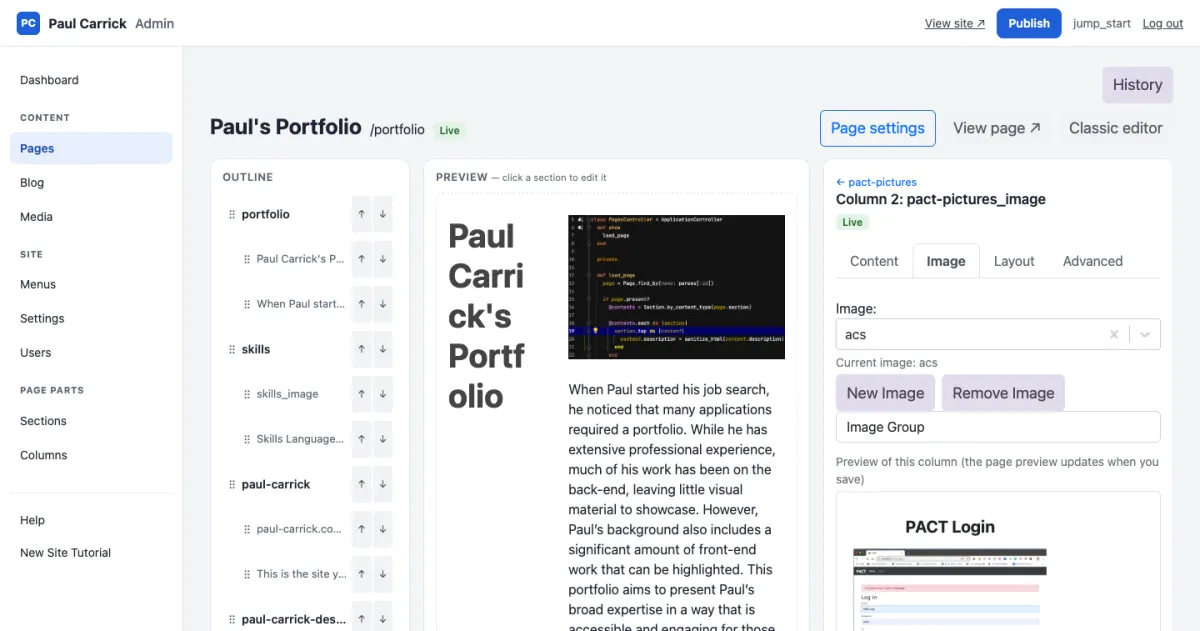
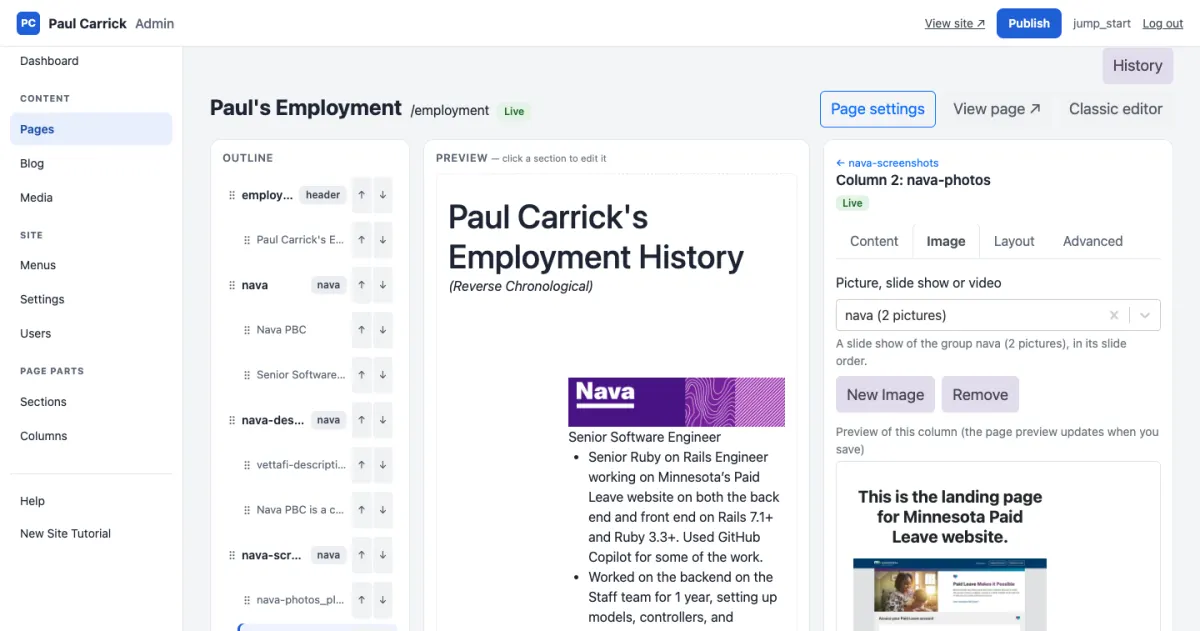
Choose a column's picture, slide show or video from one list
The column editor's Image tab had an unlabelled type select beside the
picture list, easy to miss, so adding an image group seemed to be gone. It
now has one labelled list, Picture, slide show or video: slide shows (each
image group with its number of pictures), videos and pictures, searchable,
each stored with its reference (ImageGroup:, VideoImage:"", ImageFile:) and
described under the list. Changing the choice drops any saved slide-show
list so the new choice shows. The help guide and tutorial describe it.

diff --git a/app/javascript/components/ImagePicker.tsx b/app/javascript/components/ImagePicker.tsx
@@ -1,6 +1,7 @@
 import NewImageButton from "./NewImageButton";
 import { useImageChoices } from "../hooks/useImageChoices";
-import React, { useState } from "react";
+import React, { useEffect, useState } from "react";
+import Select from "react-select";
 import { createImageFile } from "../services/imageFileService";
 import type { ImageType } from "../types/dataTypes";
 import { renderComboBox, renderSelect } from "./renderControlFunctions";
@@ -16,6 +17,85 @@ function imageChoice(image: string | null): string | null {
   if (!image) return null;
   const video = image.match(/^VideoImage:\s*"(.*)"$/);
   return video ? video[1] : image.replace(/^(ImageFile|ImageGroup|ImageSection):\s*/, '');
+}
+
+
+// The column's image field as one of the choices below: "ImageFile:name"
+// (a plain name counts as a picture too), "ImageGroup:group" for a slide show
+// of a group, or 'VideoImage:"name"' for a video.
+export function mediaReference(image: string | null | undefined): string {
+  const value = (image || "").trim();
+  if (!value) return "";
+  const video = value.match(/^VideoImage:\s*(?:"|&quot;)\s*(.+?)\s*(?:"|&quot;)$/);
+  if (video) return `VideoImage:"${video[1]}"`;
+  const typed = value.match(/^(ImageFile|ImageGroup|ImageSection):\s*(.+)$/);
+  if (typed) return `${typed[1]}:${typed[2].trim()}`;
+  if (/^(https?:|\/|\[)/.test(value)) return value;
+  return `ImageFile:${value}`;
+}
+
+type MediaOption = { label: string; value: string };
+
+// One list for everything a column can show: a picture, a slide show of an
+// image group, or a video. Choosing one stores the right reference.
+function MediaChooser({
+  image,
+  images,
+  groups,
+  groupCounts,
+  videos,
+  onChoose,
+}: {
+  image: string | null;
+  images: string[];
+  groups: string[];
+  groupCounts: Record<string, number>;
+  videos: string[];
+  onChoose: (reference: string) => void;
+}) {
+  const plural = (count: number | undefined) => (count === undefined ? "" : ` (${count} ${count === 1 ? "picture" : "pictures"})`);
+  // The short lists first, so slide shows and videos are not buried under
+  // every picture; typing searches all three.
+  const options = [
+    { label: "Slide shows (image groups)", options: groups.map((group) => ({ label: `${group}${plural(groupCounts[group])}`, value: `ImageGroup:${group}` })) },
+    { label: "Videos", options: videos.map((name) => ({ label: name, value: `VideoImage:"${name}"` })) },
+    { label: "Pictures", options: images.map((name) => ({ label: name, value: `ImageFile:${name}` })) },
+  ].filter((group) => group.options.length > 0);
+  const reference = mediaReference(image);
+  const all: MediaOption[] = options.flatMap((group) => group.options);
+  const current = reference ? all.find((option) => option.value === reference) || { label: reference, value: reference } : null;
+
+  let description = "Nothing chosen: the column shows only its text.";
+  if (reference.startsWith("ImageGroup:")) {
+    const group = reference.slice("ImageGroup:".length);
+    description = `A slide show of the group ${group}${plural(groupCounts[group])}, in its slide order.`;
+  } else if (reference.startsWith("VideoImage:")) {
+    description = `The video ${reference.slice('VideoImage:"'.length, -1)}, with play controls.`;
+  } else if (reference.startsWith("ImageSection:")) {
+    description = `The pictures of the section ${reference.slice("ImageSection:".length)}.`;
+  } else if (reference.startsWith("ImageFile:")) {
+    description = `The picture ${reference.slice("ImageFile:".length)}.`;
+  } else if (reference) {
+    description = `The picture at ${reference}.`;
+  }
+
+  return (
+    <div className="column-media">
+      <label htmlFor="column-media" className="form-label">Picture, slide show or video</label>
+      <Select<MediaOption, false>
+        inputId="column-media"
+        classNamePrefix="column-media"
+        value={current}
+        options={options}
+        onChange={(option) => onChoose(option?.value || "")}
+        isClearable
+        isSearchable
+        placeholder="Type to search pictures, groups and videos…"
+        noOptionsMessage={() => "Nothing matches. Upload it with New Image."}
+      />
+      <div className="form-text">{description}</div>
+    </div>
+  );
 }
 
 const imageTypeOptions = [
@@ -44,6 +124,10 @@ export default function ImagePicker({
   setValue: (value: string, attribute: string) => void;
 }) {
   const { choices, reload, error } = useImageChoices();
+  // Load the full list (with each group's size) for the column editor.
+  useEffect(() => {
+    if (referenceValues && !choices) reload();
+  }, [referenceValues, choices, reload]);
   availableImagesData = choices?.images ?? availableImagesData;
   availableImageGroupsData = choices?.groups ?? availableImageGroupsData;
   availableVideosData = choices?.videos ?? availableVideosData;
@@ -104,6 +188,26 @@ export default function ImagePicker({
     setUploadedImage(null);
     setImageName("");
   };
+
+  if (referenceValues) {
+    return (
+      <div className="mb-2">
+        <MediaChooser
+          image={image}
+          images={availableImagesData ?? []}
+          groups={availableImageGroupsData ?? []}
+          groupCounts={choices?.group_counts ?? {}}
+          videos={availableVideosData ?? []}
+          onChoose={(reference) => setValue(reference, "image")}
+        />
+        <div className="d-flex flex-wrap align-items-center gap-2 mt-2">
+          <NewImageButton onReturn={reload} />
+          {image && <button type="button" className="btn btn-secondary" onClick={() => setValue("", "image")}>Remove</button>}
+        </div>
+        {error && <div role="alert">{error} <button type="button" className="btn btn-link" onClick={reload}>Retry</button></div>}
+      </div>
+    );
+  }
 
   if (!image && imageType === "Upload") {
     return (

diff --git a/spec/javascript/admin_editors_real.test.jsx b/spec/javascript/admin_editors_real.test.jsx
@@ -13,8 +13,9 @@ it('initializes the standalone column and image picker without changing parent h
   const onFinished = vi.fn();
   const { container } = render(<CellEditor cell={cell} editorOptions={{ availableSectionNames: ['section'], availableImages: ['photo'], availableImageGroups: ['gallery'], availableVideos: ['clip'] }} onFinished={onFinished} />);
   expect(screen.getByText('Save Column')).toBeTruthy();
-  fireEvent.change(container.querySelector('#image_type'), { target: { value: 'Groups' } });
-  expect(container.querySelector('#image_type').value).toBe('Groups');
+  // One list for pictures, slide shows and videos replaces the old type select.
+  expect(container.querySelector('#column-media')).toBeTruthy();
+  expect(container.querySelector('#image_type')).toBeNull();
   fireEvent.change(container.querySelector('#cell_name'), { target: { value: 'changed' } });
   fireEvent.click(screen.getByText('Cancel'));
   expect(onFinished).toHaveBeenCalledWith(cell);

diff --git a/app/javascript/components/CellEditor.tsx b/app/javascript/components/CellEditor.tsx
@@ -92,10 +92,12 @@ const CellEditor: React.FC<CellEditorProps> = ({
       setCellData((prev) => {
         if (!prev) return null;
 
-        if (attribute === "image" && !newValue) {
+        // A slide show's pictures are worked out when the page is drawn; a
+        // saved list would keep showing the old slide show after a change.
+        if (attribute === "image") {
           const formatting = { ...(prev.formatting || {}) };
           delete formatting.slide_show_images;
-          return { ...prev, image: null, formatting };
+          return { ...prev, image: newValue ? (newValue as string) : null, formatting };
         }
         if (attribute === "useHtmlView") {
           return {

diff --git a/app/assets/stylesheets/admin.css b/app/assets/stylesheets/admin.css
@@ -788,3 +788,7 @@ li.is-dragging > .outline-row { opacity: 0.4; }
 .workspace-duplicate-row .form-control { flex: 1; min-width: 0; }
 .workspace-duplicate-row .btn { white-space: nowrap; }
 .workspace-group-names { margin-bottom: 16px; }
+
+/* Column editor, Image tab: one list of pictures, slide shows and videos. */
+.column-media .column-media__group-heading { font-size: 12px; font-weight: 600; text-transform: uppercase; letter-spacing: .03em; color: #57606a; }
+.column-media .form-text { margin-top: 4px; }

diff --git a/app/javascript/hooks/useImageChoices.ts b/app/javascript/hooks/useImageChoices.ts
@@ -1,7 +1,7 @@
 import { siteFetch, sitePath } from "../sitePath";
 import { useCallback, useEffect, useState } from "react";
 
-type Choices = { images: string[]; videos: string[]; groups: string[] };
+type Choices = { images: string[]; videos: string[]; groups: string[]; group_counts?: Record<string, number> };
 let cached: { location: string; choices: Choices } | null = null;
 const changedEvent = "jumpstart:image-choices-changed";
 

diff --git a/spec/system/column_media_choice_spec.rb b/spec/system/column_media_choice_spec.rb
@@ -1,0 +1,82 @@
+require 'rails_helper'
+
+# The column editor's Image tab: one list of pictures, slide shows (image
+# groups) and videos, each stored with the right reference.
+RSpec.describe 'Choosing a picture, slide show or video for a column', type: :system do
+  let!(:site_setup) { SiteSetup.find_by(configuration_name: 'default') }
+  let!(:page_record) { create(:page, name: 'garden', section: 'garden-content', title: 'Our Garden') }
+  let!(:section) { create(:section, page: page_record, content_type: 'garden-content', section_name: 'garden-intro', image: nil, description: nil) }
+  let!(:column) do
+    create(:cell, section: section, section_name: 'garden-intro', cell_name: 'garden-intro_image', cell_type: 'image',
+                  image: nil, link: nil, content: nil)
+  end
+  let!(:rose) { create(:image_file, name: 'rose', group: 'flowers', slide_order: 1) }
+  let!(:tulip) { create(:image_file, name: 'tulip', group: 'flowers', slide_order: 2) }
+  let!(:tour) { create(:image_file, name: 'garden-tour', group: nil, mime_type: 'video/mp4') }
+
+  before do
+    driven_by(:selenium_chrome_headless)
+    login_as(create(:user, access: 'super'))
+  end
+
+  def open_image_tab
+    visit admin_page_workspace_path(page_record, cell: column.id)
+    within('.workspace-panel') { click_button 'Image' }
+  end
+
+  def choose_media(text)
+    find('#column-media').click
+    find('#column-media').send_keys(text.split.first)
+    find('.column-media__option', text: text, exact_text: true).click
+  end
+
+  def saved_image = Cell.find(column.id).image
+
+  def save_column
+    wait_for_new_page { click_button 'Save Column' }
+  end
+
+  it 'lists pictures, slide shows with their sizes, and videos under their own headings' do
+    open_image_tab
+    find('#column-media').click
+    expect(page).to have_css('.column-media__group-heading', text: /pictures/i)
+    expect(page).to have_css('.column-media__group-heading', text: /slide shows/i)
+    expect(page).to have_css('.column-media__group-heading', text: /videos/i)
+    expect(page).to have_css('.column-media__option', text: 'flowers (2 pictures)')
+    expect(page).to have_css('.column-media__option', text: 'garden-tour')
+  end
+
+  it 'stores a slide show, a video and a picture with the right reference' do
+    open_image_tab
+    choose_media 'flowers (2 pictures)'
+    expect(page).to have_content('A slide show of the group flowers (2 pictures), in its slide order.')
+    save_column
+    expect(saved_image).to eq('ImageGroup:flowers')
+    within('.workspace-panel') { click_button 'Image' } unless page.has_css?('#column-media', wait: 1)
+
+    choose_media 'garden-tour'
+    expect(page).to have_content('The video garden-tour, with play controls.')
+    save_column
+    expect(saved_image).to eq('VideoImage:"garden-tour"')
+    within('.workspace-panel') { click_button 'Image' } unless page.has_css?('#column-media', wait: 1)
+
+    choose_media 'tulip'
+    expect(page).to have_content('The picture tulip.')
+    save_column
+    expect(saved_image).to eq('ImageFile:tulip')
+    expect(Cell.find(column.id).formatting.to_h).not_to have_key('slide_show_images')
+    within('.workspace-panel') { click_button 'Image' } unless page.has_css?('#column-media', wait: 1)
+
+    within('.column-media') { expect(page).to have_text('tulip') }
+    click_button 'Remove', exact: true
+    save_column
+    expect(saved_image).to be_nil
+  end
+
+  it 'shows the chosen slide show on the page' do
+    column.update!(image: 'ImageGroup:flowers')
+    visit admin_page_workspace_path(page_record, cell: column.id)
+    within('.column-media') { expect(page).to have_text('flowers (2 pictures)') }
+    expect(page).to have_content('A slide show of the group flowers')
+  end
+end

diff --git a/spec/system/cell_image_selection_spec.rb b/spec/system/cell_image_selection_spec.rb
@@ -10,15 +10,15 @@ RSpec.describe 'Cell image selection', type: :system do
     image = create(:image_file)
     cell = create(:cell, cell_type: 'image', image: "ImageFile:#{image.name}", link: nil)
     visit edit_admin_cell_path(cell)
-    within('#imageDiv') { expect(page).to have_text(image.name) }
-    expect(page).to have_content("Current image: #{image.name}")
-    click_button 'Remove Image'
+    within('.column-media') { expect(page).to have_text(image.name) }
+    expect(page).to have_content("The picture #{image.name}.")
+    click_button 'Remove', exact: true
     expect(page).to have_no_css('#cellPreview img')
     click_button 'Save Column'
     expect(page).to have_current_path(admin_cells_path, ignore_query: true)
     expect(Cell.find(cell.id).image).to be_nil
     visit edit_admin_cell_path(cell)
-    expect(page).to have_no_button('Remove Image')
+    expect(page).to have_no_button('Remove', exact: true)
     expect(page).to have_no_css('#cellPreview img')
     expect(ImageFile.find(image.id).image).to be_attached
     PublishingContext.live = true
@@ -30,12 +30,12 @@ RSpec.describe 'Cell image selection', type: :system do
     replacement = create(:image_file)
     cell = create(:cell, cell_type: 'image', image: "ImageFile:#{image.name}", link: nil)
     visit edit_admin_cell_path(cell)
-    find('#image').send_keys(replacement.name)
-    within('#imageDiv') { find('[role=option]', text: replacement.name, exact_text: true).click }
+    find('#column-media').send_keys(replacement.name)
+    within('.column-media') { find('[role=option]', text: replacement.name, exact_text: true).click }
     click_button 'Save Column'
     expect(page).to have_current_path(admin_cells_path, ignore_query: true)
     expect(Cell.find(cell.id).image).to eq("ImageFile:#{replacement.name}")
     visit edit_admin_cell_path(cell)
-    within('#imageDiv') { expect(page).to have_text(replacement.name) }
+    within('.column-media') { expect(page).to have_text(replacement.name) }
   end
 end

diff --git a/spec/system/create_image_from_picker_spec.rb b/spec/system/create_image_from_picker_spec.rb
@@ -33,7 +33,7 @@ RSpec.describe 'Create images while editing', type: :system do
     create_image_in_dialog('Created from column')
     expect(page).to have_current_path(edit_admin_cell_path(column))
     expect(page).to have_css('.ql-editor', text: 'Unsaved column content')
-    find('#image').click
+    find('#column-media').click
     expect(page).to have_css('[role="option"]', text: 'Created from column')
     find('[role="option"]', text: 'Created from column', exact_text: true).click
     click_button 'New Image'
@@ -81,9 +81,9 @@ RSpec.describe 'Create images while editing', type: :system do
     create_image_in_dialog('New nested image')
     click_button 'Save Column'
     click_link 'Edit Column'
-    find('#image').click
+    find('#column-media').click
     expect(page).to have_css('[role="option"]', text: 'New nested image')
-    find('#image').send_keys(:escape)
+    find('#column-media').send_keys(:escape)
     click_button 'Save Column'
     expect(find('#section_order').value).to eq('70')
     click_button 'Save Section'

diff --git a/app/controllers/admin/image_files_controller.rb b/app/controllers/admin/image_files_controller.rb
@@ -15,7 +15,8 @@ class Admin::ImageFilesController < Admin::AbstractAdminController
       render json: {
         images: ImageFile.images,
         videos: ImageFile.videos,
-        groups: ImageFile.where.not(group: [ nil, "" ]).distinct.order(:group).pluck(:group)
+        groups: ImageFile.where.not(group: [ nil, "" ]).distinct.order(:group).pluck(:group),
+        group_counts: ImageFile.where.not(group: [ nil, "" ]).group(:group).count
       }
     else
       super

diff --git a/docs/admin-guide.md b/docs/admin-guide.md
@@ -161,20 +161,27 @@ At the top: **History**, **Page settings**, **View page ↗** (the live page in 
 The panel has four tabs:
 
 - **Content**: the text (with **Switch to HTML View**) and the column's link.
-- **Image**: the picture, image group, slide show or video, with **New Image** and **Remove Image**.
+- **Image**: the picture, slide show (an image group) or video, chosen from one list, with **New Image** and **Remove**.
 - **Layout**: the formatting fields (margins, background, image and caption classes and styles).
 - **Advanced**: Enabled, the column's name and its order.
 
 A small preview of the column sits under the tabs. **Delete this column** removes it.
 
-### How to change a column's picture
+### How to choose a column's picture, slide show or video
 
-1. Open the page's workspace and click the picture column's name in the outline. A picture column opens on the **Image** tab.
-2. In **Image**, choose a picture from the list (type to search by name). Or choose **New Image** to upload one without leaving the page.
-3. To show a slide show instead, fill in **Image Group** with the group's name.
+1. Open the page's workspace and click the column's name in the outline. A picture column opens on the **Image** tab; for any other column, choose the **Image** tab.
+2. Click **Picture, slide show or video**. The list has three parts:
+   - **Slide shows (image groups)**: every image group, with how many pictures it has. The column shows them one after another, in the group's slide order (set it in Media; see [How to put a group's pictures in order](#how-to-put-a-group-s-pictures-in-order)).
+   - **Videos**: the MP4 videos in Media. The column shows the video with play controls.
+   - **Pictures**: every picture in Media.
+3. Choose one, or type part of its name to find it. The line under the list says what the column will show.
 4. Choose **Save Column**, then publish.
 
-![The Image tab: choose a picture, upload a new one, or name an image group](../public/admin-help/column-image.webp)
+**Remove** takes the picture, slide show or video off the column (the file stays in Media). **New Image** uploads a new file without leaving the page; it then appears in the list.
+
+![The Image tab: the column shows the slide show of the group nava](../public/admin-help/column-image.webp)
+
+![The list: slide shows with their sizes first, then videos, then pictures](../public/admin-help/column-media-list.webp)
 
 ### How to change a column's layout
 

diff --git a/docs/new-site-tutorial.md b/docs/new-site-tutorial.md
@@ -122,7 +122,7 @@ If you intend to add another independently routed website to an existing install
 
     ![Click a thumbnail to see its details and edit its caption](../public/admin-help/media-details.webp)
 2. Return to the home page's workspace. Add a section with an image and text layout, or click an existing image column.
-3. In the panel's **Image** tab, select the uploaded image (or use **New Image** to upload one without leaving the page). In the **Content** tab enter accompanying text such as "Explore our recent projects." Choose **Save Column** and check the image's fit in the preview.
+3. In the panel's **Image** tab, choose the uploaded image in **Picture, slide show or video** (or use **New Image** to upload one without leaving the page). The same list offers slide shows of image groups and videos. In the **Content** tab enter accompanying text such as "Explore our recent projects." Choose **Save Column** and check the image's fit in the preview.
 
     ![The Image tab: choose the uploaded picture](../public/admin-help/column-image.webp)
 4. Choose **Publish**, check the home page's group and publish it, then open the home page to check the result. Back in **Media**, the image's details now list the home page under **Used on**.
